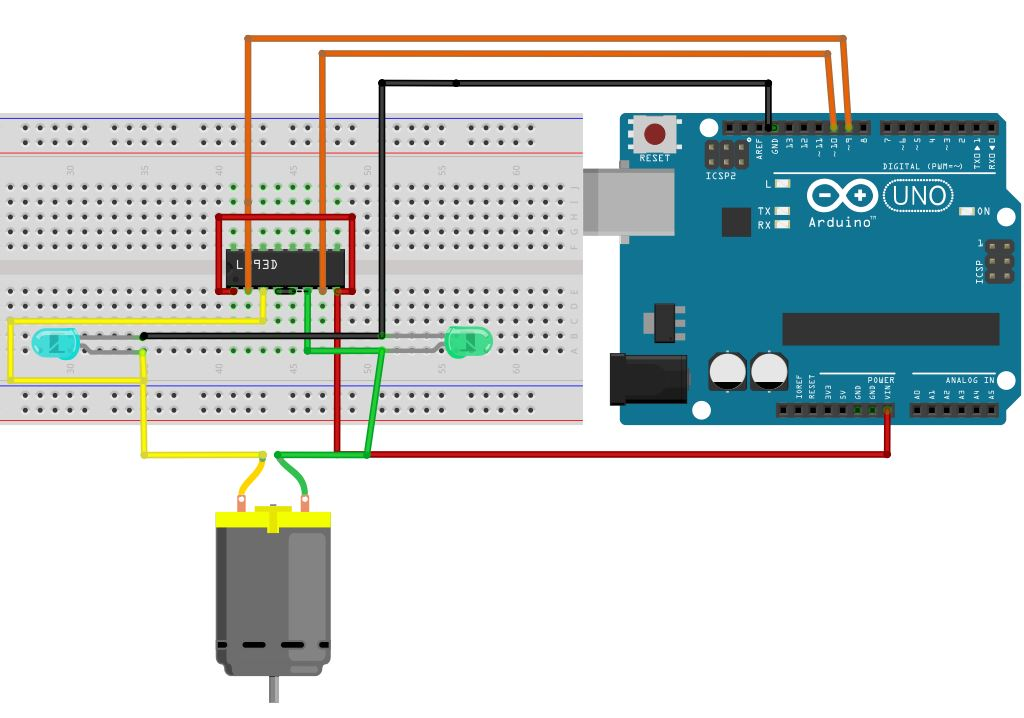
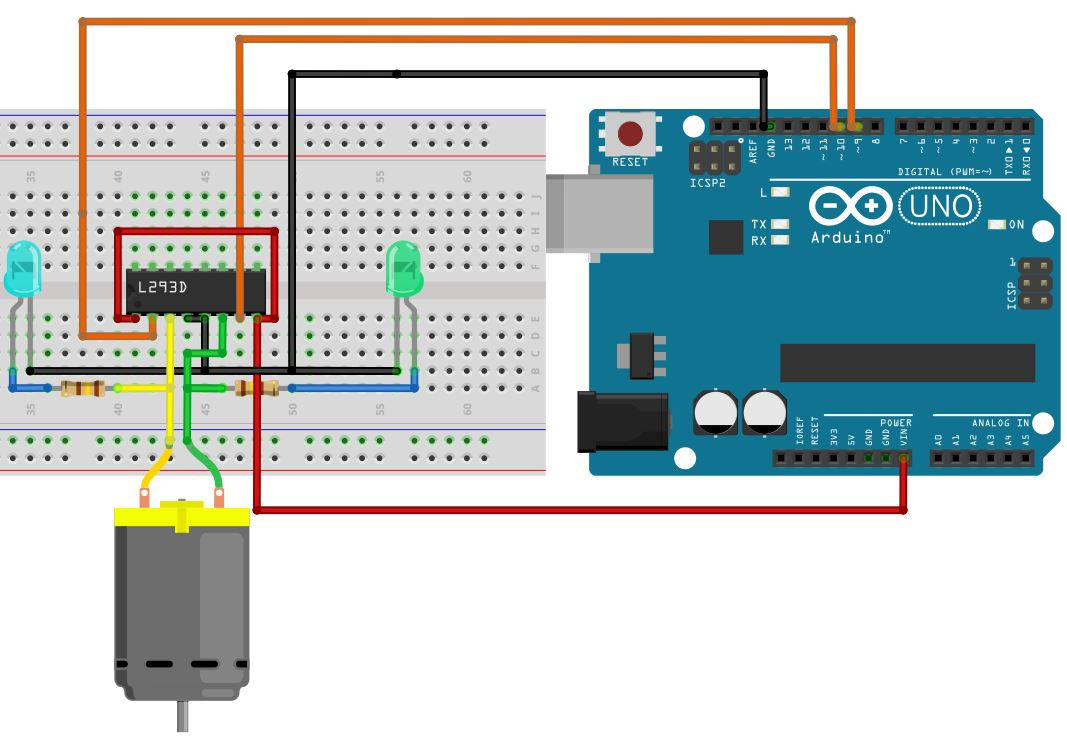
HW

diff --git a/Rapport/Implementering/Hardware.tex b/Rapport/Implementering/Hardware.tex
@@ -308,7 +308,14 @@ pinMode(3, OUTPUT);
 
 Ved overstående kode vil der være en duty cyklus på output A da være $$\frac{180+1}{256}*100=70,7\%$$ og en PWM frekvens på     
   $$\frac{16MHz}{64/256}=976.6Hz$$. Output B vil have en duty cyklus på $$\frac{50+1}{256}*100=19.9 \%$$ og den samme frekvens. Den sidst nævnte metode, er den metode hvor der er mest kontrol over PWM signalet. Derfor bruges denne i dette projekt.
-
+  
+For at lysdiodernen ikke skal brænde af, er det nødvendigt med modstande foran dem. Modstandene kan beregnes på følgende måde
+Formodstandenes værdi er beregnet ved \ref{eq:modstandLEDmotor}. 
+\begin{align}
+R=\frac{V_{source}-V_{lysdiode}}{I_{lysdiode}}=\frac{6-3.2}{20mA}=140\Omega
+\label{eq:modstandLEDmotor}
+\end{align} 
+Dette giver en effekt afsætning i modstandene på $(V_{source}-V_{lysdiode}*I_{lysdiode}=2,8*20mA=0,056W)$ hvilket giver grund for at 0.33W modstande er passende.
 
 
 \subsubsection{Enhedstest af motor og motordriver}
@@ -351,6 +358,8 @@ V=\pi*r^2*h=\pi*\frac{\SI{51}{\micro\metre}}{2}*5cm=0,04ml
 
 Yderligere skal ventilen åbne lidt før og lukke lidt efter. Derfor skal der også være en tid for, hvor lang tid ventilen skal være åben, dette bør testes i en enhedstest af ventilen.
 
+Ligesom ved motoren er det også her nødvendigt, at sætte en modstand foran lysdioden. Modstanden er af samme type som til kameralyset se \ref{subsec:kameralys} for beregninger for dem. 
+
  På figur \ref{fig:ventildiagram} kan der ses et diagram over arduinoen, motordriveren og ventilen.
 
 \begin{figure}[H]
@@ -372,13 +381,14 @@ På figur \ref{fig:ventilbreadboard} er det illustreret hvordan testopstilling e
 Reference til testkode ved arduino 
  
  \subsection{Kameralys}
+ \label{subsec:kameralys}
  Kameralyset skal kunne variere, da operatøren skal kunne indstille lyset for den bedst mulige opsætning. Det gøres for at kameraet har de bedste muligheder for at detekterer de langerhanske øer. Der skal sættes 4 lysdioder i en kasse, hvor kun kameralyset lyser kassen op. Kameraet skal detekterer de langerhanske øer der løber i slangen inde i kassen. Lyset implementeres for at styre lysniveauet på billederne. Da der ikke kan trækkes strøm nok ud af arduinoen, kræves det en anden forsyning til lysdioderne. Dertil udnyttes den sidste udgang i motordriveren, men da denne forsynings med 12V og lysdioder kun tåler 3.2V skal spændingen nedjusteres. Den lettest måde at gøre dette på er, at sætte lysdioderne i serie. Hvis en lysdiode bliver defekt, Skabes der ingen lys til kameraet. Derfor er der valgt en løsning med modstande foran hver lysdiode. Formodstandenes værdi er beregnet ved \ref{eq:modstand}. 
 
 \begin{align}
 R=\frac{V_{source}-V_{lysdiode}}{I_{lysdiode}}=\frac{12-3.2}{20mA}=440\Omega
 \label{eq:modstand}
 \end{align} 
-Dette giver en effekt afsætning i modstandene på $(V_{source}-V_{lysdiode}*I_{lysdiode}=8,8*20mA=0,176)$ hvilket giver grund for at 0.33W modstande er passende.
+Dette giver en effekt afsætning i modstandene på $(V_{source}-V_{lysdiode}*I_{lysdiode}=8,8*20mA=0,176W)$ hvilket giver grund for at 0.33W modstande er passende.
 
 På figur \ref{fig:LEDdiagram} vises diagrammet for Kameralyset
  
